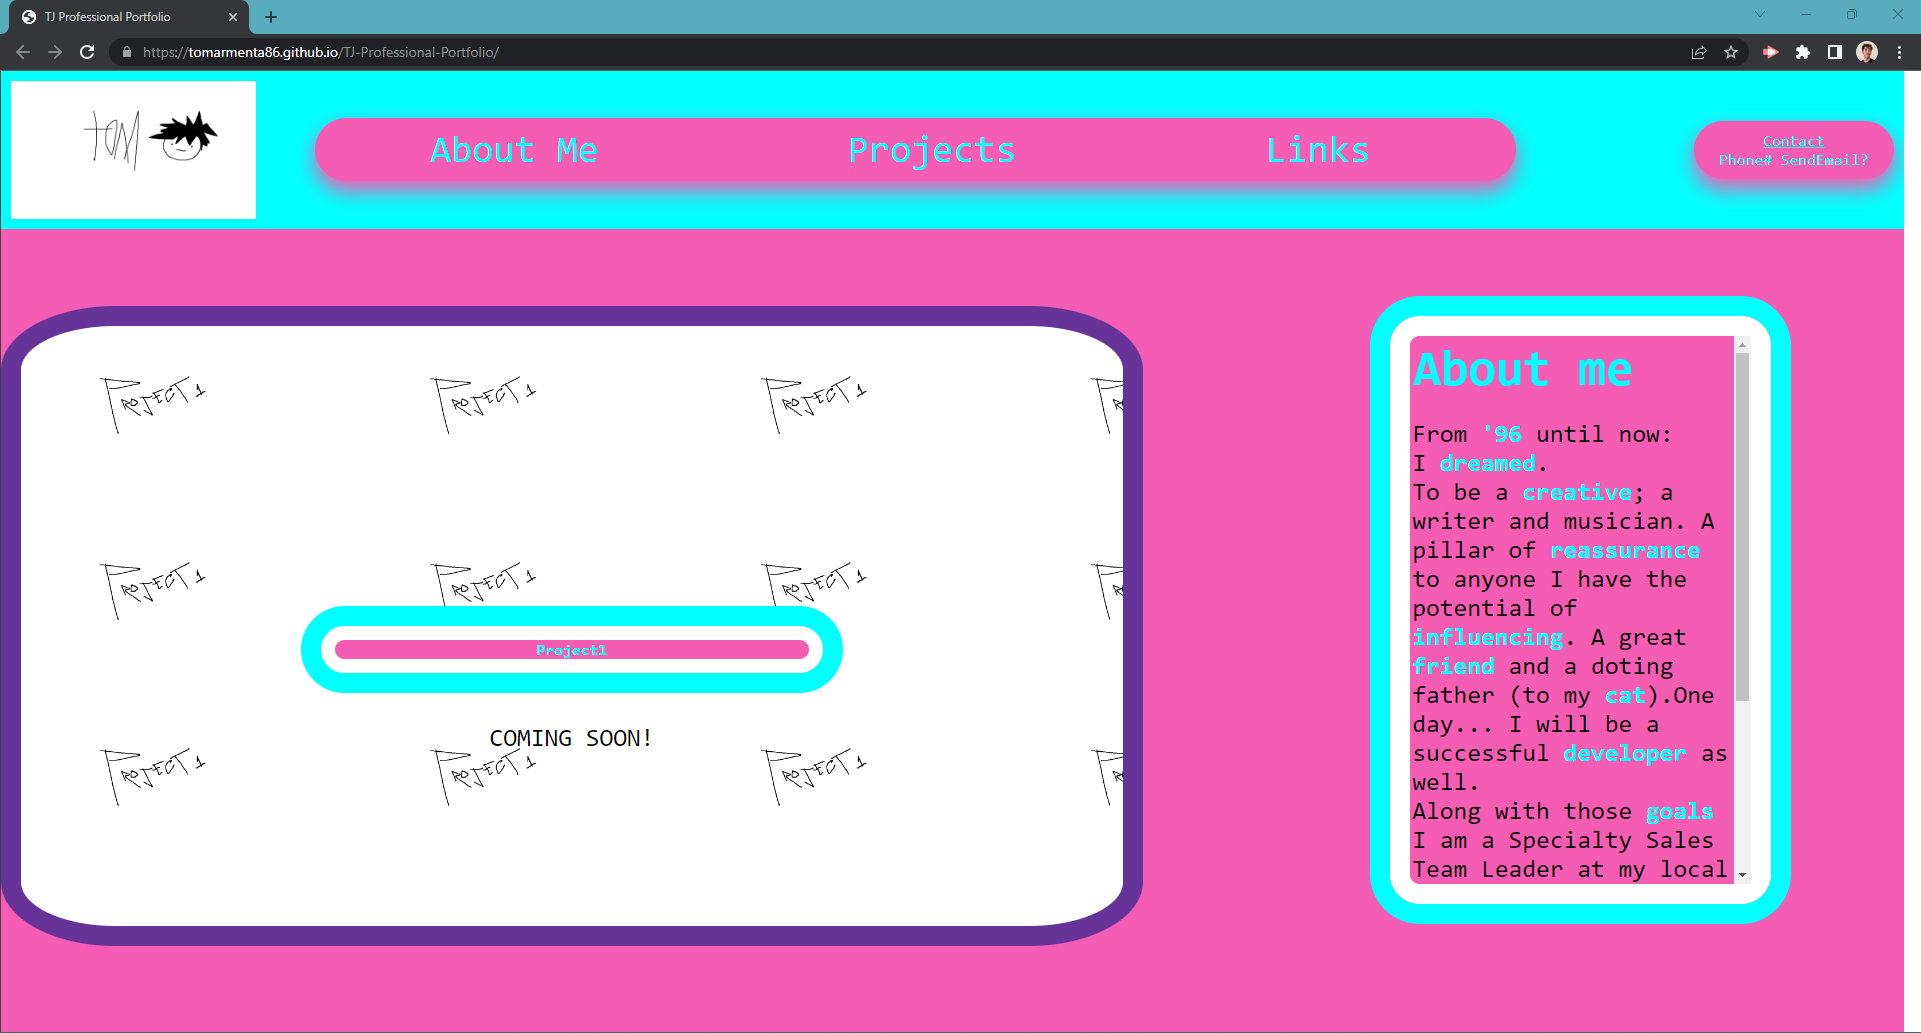
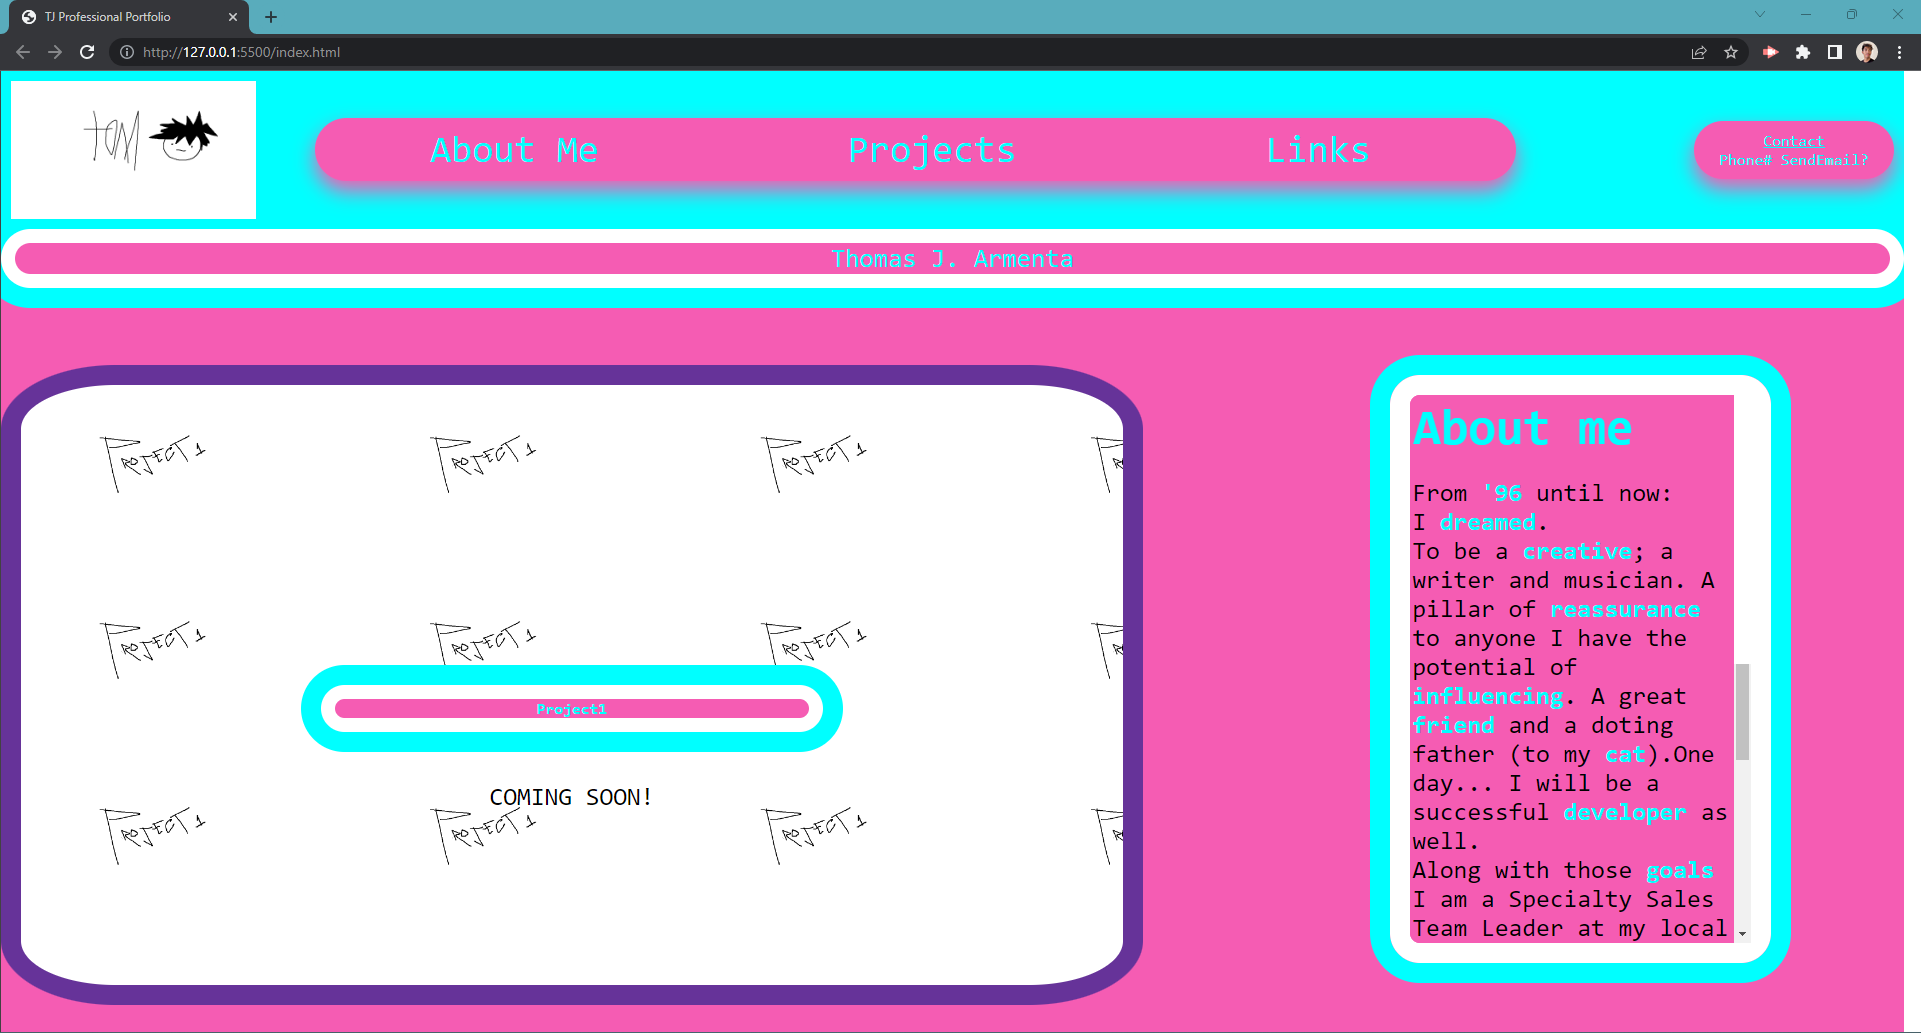
added Name in header along with CSS styling. Updated screenshot to match

diff --git a/style.css b/style.css
@@ -76,6 +76,21 @@ body {
     background-color: rgb(245, 92, 179) ;
     
 }
+/*name styling*/
+.Name{
+    font-size: 26px;
+   font-family: monospace;
+   background-color: rgb(245, 92, 179);
+   border: 14px solid;
+   border-color: white ;
+   border-radius: 30px;
+   text-align: center;
+   color: aqua;
+   box-shadow: 0px 0px 0px 20px;
+   width:auto;
+   margin-bottom: %;
+   display:
+}
 
 /*BOXES FOR INFO*/
 .sections{

diff --git a/index.html b/index.html
@@ -29,7 +29,10 @@
             </div>
     </header>
     <body>
-        <main><!--copied body elements-->
+        <main>
+            <!--ALmost forgot the name-->
+            <Div class= Name>Thomas J. Armenta</Div>
+            <!--copied body elements-->
             <article id="p1" class = sections>
                 <h1 class="projects">Project1</h1>
                     <Section> COMING SOON!
